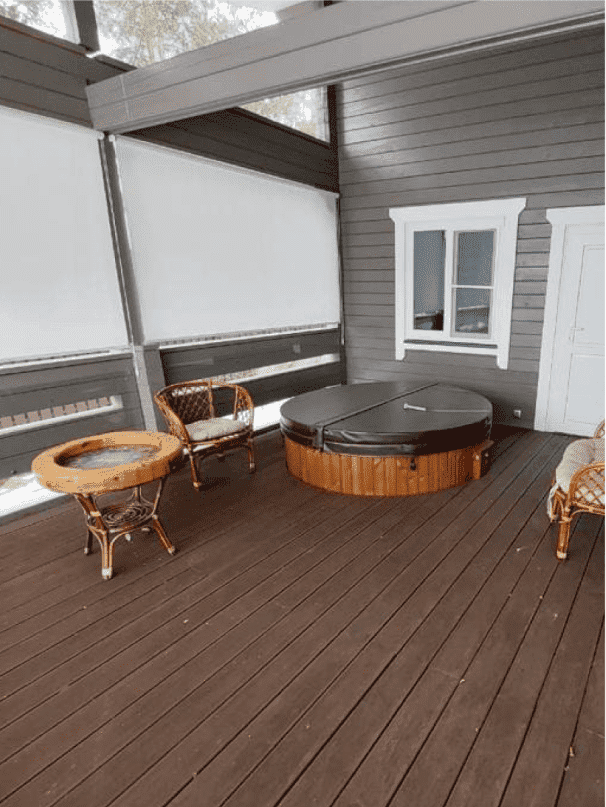
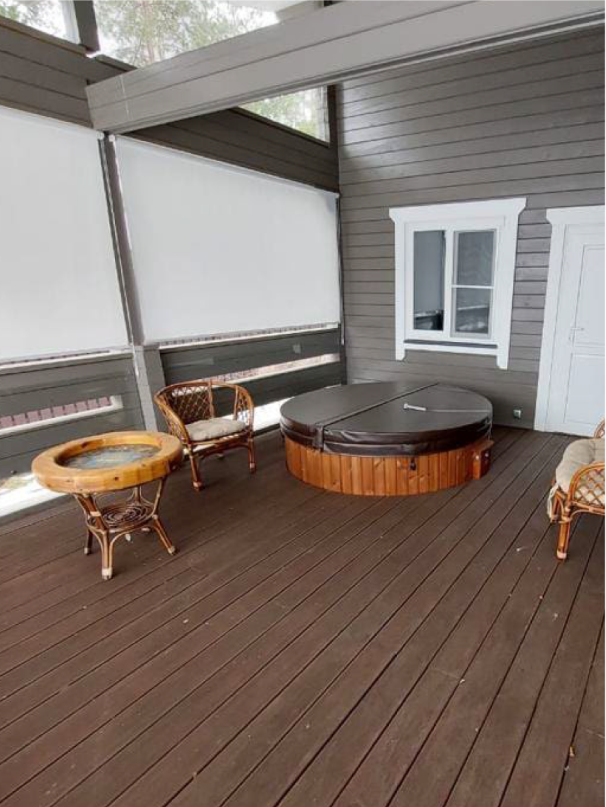
feat: refactor menu, resized some image, fixed second nature slider image

diff --git a/src/app/components/menu-burger/menu.tsx b/src/app/components/menu-burger/menu.tsx
@@ -6,10 +6,10 @@ export default function Menu() {
 	const [isOpen, setIsOpen] = useState(false);
 
 	const backgroundContainer = isOpen
-		? 'h-[100vh] index  xl:pl-[2rem] lg:pl-[5rem] sm:pl-[3rem] pl-[1rem]'
-		: 'h-0  xl:pl-[2rem] lg:pl-[5rem] sm:pl-[3rem] pl-[1rem]';
+		? 'h-[100vh] index  xl:pl-[2rem] lg:pl-[5rem] sm:pl-[3rem] pl-[1rem] opacity-100'
+		: 'h-0  xl:pl-[2rem] lg:pl-[5rem] sm:pl-[3rem] pl-[1rem] opacity-0';
 
-	const backgroundLinks = isOpen ? ' top-[4rem] ' : ' top-[-544px] ';
+	const backgroundLinks = isOpen ? ' top-[4rem]' : ' top-[-544px]';
 
 	return (
 		<div className="fixed top-0 left-0 index w-full">

diff --git a/src/app/components/sliders/nature-sliders/second-slider/NatureSecondSlider.tsx b/src/app/components/sliders/nature-sliders/second-slider/NatureSecondSlider.tsx
@@ -9,7 +9,7 @@ import styles from './nature-second-slider.module.css';
 const natureSecondSliderFirstImage =
 	'/karelia/images/nature_house/second_slider_first.png';
 const natureSecondSliderSecondImage =
-	'/karelia/images/nature_house/second_slider_first.png';
+	'/karelia/images/nature_house/second_slider_second.png';
 const natureSecondSliderValaamFirstImage =
 	'/karelia/images/nature_house/valaam_1.jpg';
 const natureSecondSliderValaamSecondImage =
